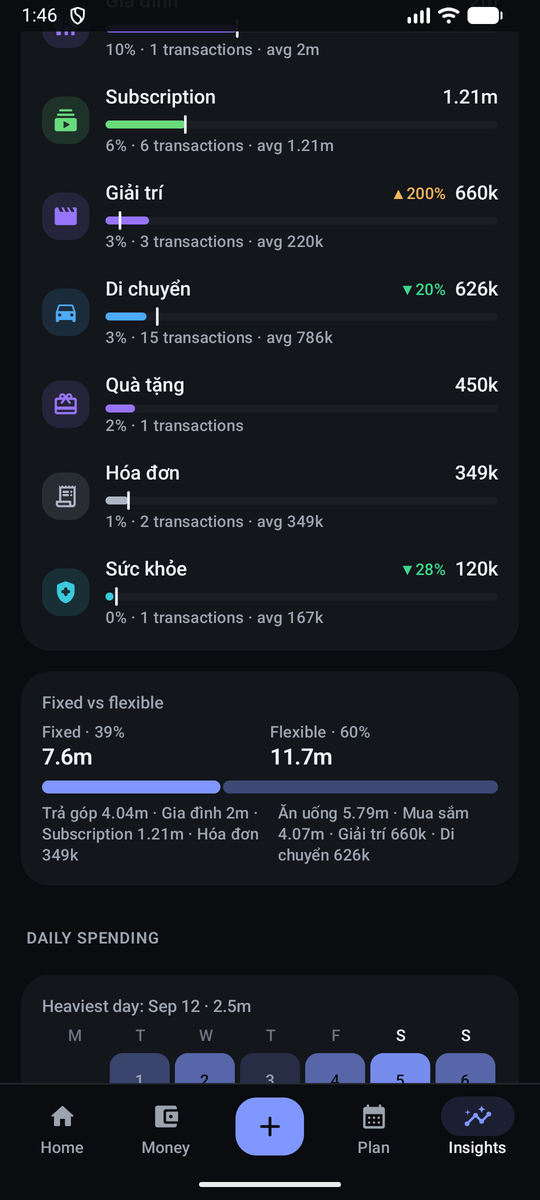
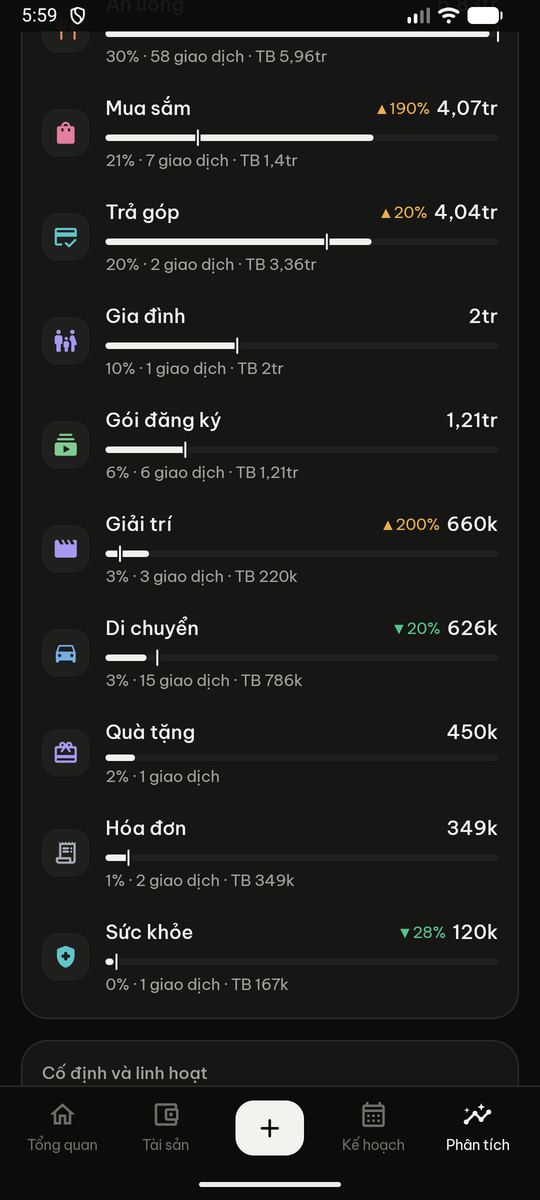
Docs: new screenshots and documentation for design v2
- Fresh screenshots (Vietnamese, light and dark) for every main screen
- README rewritten in Vietnamese with download link, CI/release process,
  build badge and interaction counts
- PRODUCT.md: design system v2 (palette, Be Vietnam Pro, components,
  localized number/date formats)
- AUDIT.md: pass 4 (Vietnamese default, design v2, fixes), CI and release notes

diff --git a/README.md b/README.md
@@ -1,25 +1,55 @@
 # Ledger
 
-A personal, offline-first Android money app built around one interaction: **tap a preset → amount → save**.
-Everything else — accounts, credit cards, subscriptions, installments, safe-to-spend, forecast and analytics —
-exists to make the financial picture clearer without making that interaction slower.
+[![Android build](https://github.com/zcrossoverz/personal-finance/actions/workflows/android.yml/badge.svg)](https://github.com/zcrossoverz/personal-finance/actions/workflows/android.yml)
+[![Release](https://img.shields.io/github/v/release/zcrossoverz/personal-finance)](https://github.com/zcrossoverz/personal-finance/releases/latest)
 
-![Light](docs/screenshots/overview_light.png)
-![Dark](docs/screenshots/overview_dark.png)
+Ứng dụng quản lý tài chính cá nhân cho Android, chạy hoàn toàn trên máy (offline), xoay quanh một thao tác:
+**chạm mục → nhập số tiền → lưu**. Mọi thứ còn lại — tài khoản, thẻ tín dụng, gói đăng ký, trả góp, số tiền
+có thể chi, dự báo dòng tiền và phân tích — tồn tại để bức tranh tài chính rõ hơn mà không làm thao tác đó chậm đi.
 
-- Product, IA, interaction model and design system: [docs/PRODUCT.md](docs/PRODUCT.md)
-- Audit log (what was reviewed, found and fixed): [docs/AUDIT.md](docs/AUDIT.md)
+*An offline-first personal finance app for Android. Vietnamese by default, English available in Settings.*
 
-## Download
+![Giao diện sáng](docs/screenshots/overview_light.png)
+![Giao diện tối](docs/screenshots/overview_dark.png)
 
-Every push to `main` builds the app on GitHub Actions (tests + debug and release APKs, under the run's
-**Artifacts**). Pushing a tag like `v1.0.0` also publishes a GitHub Release with the release APK attached.
+## Tải về
 
-The UI is Vietnamese by default (English available in Settings).
+**[Tải APK mới nhất](https://github.com/zcrossoverz/personal-finance/releases/latest)** — mở link trên điện thoại,
+tải file `ledger-…-release.apk` và cho phép cài từ nguồn không xác định khi Android hỏi.
 
-## Build & run
+Lần đầu mở app, chọn **Xem thử với dữ liệu mẫu** để xem mọi màn hình với 7 tháng dữ liệu thực tế, hoặc
+**Bắt đầu** để thiết lập trong 4 bước (tiền tệ → tài khoản → mục nhập nhanh → ngày lương, có thể bỏ qua).
 
-Requirements: JDK 17+, Android SDK 36 (`local.properties` → `sdk.dir`).
+## Tính năng chính
+
+| | |
+|---|---|
+| **Nhập nhanh** | Mục nhập nhanh (Ăn uống, Cafe, Xăng xe…) nhớ danh mục, tài khoản và số tiền hay dùng; nhấn giữ để lưu ngay một số tiền; tự đổi thành *Ăn trưa/Ăn tối* theo giờ; nhập bằng lệnh như `85k ăn`, `chuyển 5tr mb vcb` |
+| **Tài sản** | Nhiều tài khoản (tiền mặt, ngân hàng, ví điện tử, tiết kiệm), thẻ tín dụng với sao kê, hạn thanh toán, hạn mức; tài sản ròng theo thời gian |
+| **Kế hoạch** | Hoá đơn, gói đăng ký, trả góp và lương trên một lịch trình; **số tiền có thể chi** đến kỳ lương với công thức minh bạch; dự báo dòng tiền 45 ngày (phần ước tính luôn là nét đứt) |
+| **Phân tích** | Dòng tiền tháng, nhịp chi so với tháng trước và trung bình 3 tháng, chi theo danh mục (xem chi tiết đến từng giao dịch), cố định/linh hoạt, lịch nhiệt, dòng chảy tiền, 6 tháng gần đây, nhận xét ghi rõ *dữ kiện / ước tính / dự báo* |
+| **Chính xác** | Chuyển khoản không tính thu/chi; mua bằng thẻ chỉ tính một lần; hoàn tiền và tiền bạn bè trả lại bù vào chi tiêu, không tính là thu nhập; chia một giao dịch cho nhiều danh mục |
+| **Riêng tư** | Chỉ lưu trên máy, không cần tài khoản, không có quyền truy cập Internet; khoá bằng vân tay/khuôn mặt; ẩn số tiền; chặn chụp màn hình; xuất/khôi phục JSON, xuất CSV |
+
+| Nhập giao dịch | Có thể chi | Thẻ tín dụng | Phân tích |
+|---|---|---|---|
+| ![](docs/screenshots/entry_light.png) | ![](docs/screenshots/safe_to_spend_light.png) | ![](docs/screenshots/money2_light.png) | ![](docs/screenshots/insights_light.png) |
+
+## Số lần chạm cho các thao tác thường gặp (đo trên máy)
+
+| Tình huống | Cách làm | Số lần chạm |
+|---|---|---|
+| Ăn trưa 55k, tài khoản mặc định | *Ăn trưa* → `55k` → Lưu | **3** (hoặc 2: nhấn giữ → `55k`) |
+| Đổ xăng 100k | *Xăng xe* → `100k` → Lưu | **3** |
+| Mua Shopee bằng thẻ tín dụng | *Shopee* (đã chọn sẵn thẻ) → số tiền → Lưu | **3** |
+| Chuyển 5tr MB → VCB | **+** → Chuyển khoản → `5tr` → Lưu | **4** (hoặc lệnh `chuyển 5tr mb vcb`) |
+| Nhập tiền điện từ thông báo nhắc | Chạm thông báo → số tiền → Thanh toán | **2–3** |
+| Xem các khoản bắt buộc tháng sau | Tab Kế hoạch → nhóm "Tháng sau" có tổng | **1** |
+| Còn chi được bao nhiêu đến kỳ lương | Hiện ngay ở Tổng quan; chạm để xem cách tính | **0** / 1 |
+
+## Build
+
+Cần JDK 17+ và Android SDK 36 (`local.properties` → `sdk.dir`).
 
 ```bash
 ./gradlew :app:testDebugUnitTest
@@ -29,53 +59,42 @@ Requirements: JDK 17+, Android SDK 36 (`local.properties` → `sdk.dir`).
 ./gradlew :app:installDebug
 ```
 
+### CI và phát hành
+
+GitHub Actions ([`android.yml`](.github/workflows/android.yml)) chạy test và build APK debug + release ở mọi lần
+push và pull request (xem mục **Artifacts** của mỗi lần chạy). Để phát hành bản mới:
+
+1. Tăng `versionCode` và `versionName` trong `app/build.gradle.kts`, commit và push.
+2. Tạo tag — CI sẽ build, ký và đăng GitHub Release kèm APK:
+
 ```bash
-./gradlew :app:assembleRelease
+git tag v1.0.1 && git push origin v1.0.1
 ```
 
-The release build is minified (R8). It is signed with the keystore given by `LEDGER_KEYSTORE_PATH`,
-`LEDGER_KEYSTORE_PASSWORD`, `LEDGER_KEY_ALIAS`, `LEDGER_KEY_PASSWORD` if set (CI reads them from repository
-secrets, the keystore itself as `LEDGER_KEYSTORE_BASE64`); otherwise with the debug key so it still installs.
-On first launch choose **Explore with demo data** to review every screen with a realistic 7-month dataset, or
-**Get started** for the 4-step onboarding (currency → accounts → presets → optional pay day).
+Bản release được ký bằng keystore đọc từ biến môi trường `LEDGER_KEYSTORE_PATH`, `LEDGER_KEYSTORE_PASSWORD`,
+`LEDGER_KEY_ALIAS`, `LEDGER_KEY_PASSWORD` (trên CI lấy từ repository secrets, keystore là `LEDGER_KEYSTORE_BASE64`).
+Không có các biến này thì bản release dùng khoá debug để vẫn cài được. Keystore không bao giờ nằm trong repo.
 
-## Measured interaction counts (on device, demo data)
-
-| Scenario | Path | Taps |
-|---|---|---|
-| A. 55k lunch, default bank | *Ăn trưa* → `55k` → Save | **3** (2 via long-press → `55k`) |
-| B. 100k fuel | *Xăng xe* → `100k` → Save | **3** |
-| C. Shopee on credit card | *Shopee* (card preselected) → amount → Save | **3** |
-| D. 5m MB → VCB | **+** → Transfer → `5m` (learned route) → Save | **4** (or command `chuyển 5m mb vcb`) |
-| E. Electricity from reminder | notification → amount (or `≈720k`) → Pay | **2–3** |
-| F. Next month's mandatory payments | Plan tab → "October · Next month" header total | **1** |
-| G. Safe to spend until salary | visible on Home at launch; tap for the formula | **0** / 1 |
-
-## Architecture (deliberately small)
+## Kiến trúc
 
 ```
 app/src/main/java/dev/personal/ledger/
-  data/       Room entities + DAO, Repository (writes return Undo), Prefs, Seeds, DemoData
-  domain/     Pure Kotlin: Ledger (balances, expense lines), Cards, Plan (recurrence, obligations,
-              safe-to-spend, forecast), Analytics, Insights, Capture (preset ranking, command parser), Search
-  ui/         Compose: theme tokens, components, charts (custom Canvas), home / entry / plan / money /
-              insights / settings / onboarding
-  backup/     JSON backup + CSV export (Storage Access Framework — the user picks the file)
-  reminders/  WorkManager daily check: auto-post fixed auto-pay items, notify variable bills & card dues
+  data/       Room entities + DAO, Repository (mọi thao tác ghi đều có Undo), cài đặt, dữ liệu mẫu
+  domain/     Kotlin thuần: sổ cái, thẻ, lịch định kỳ, có thể chi, dự báo, phân tích, nhận xét, lệnh, tìm kiếm
+  i18n/       tr() + bảng tiếng Việt (mặc định)
+  ui/         Jetpack Compose: design system, biểu đồ vẽ bằng Canvas, các màn hình
+  backup/     Sao lưu JSON + xuất CSV qua Storage Access Framework
+  reminders/  WorkManager: tự ghi các khoản tự động, nhắc hoá đơn thay đổi và hạn thẻ
 ```
 
-* One module, no DI framework (`LedgerApp` wires Room + Repository), no backend, and no `INTERNET` permission —
-  the app cannot reach the network.
-* The whole ledger is held in memory as `LedgerData`; every calculation is a pure function over it, computed off
-  the main thread. A personal ledger is thousands of rows, so this stays fast and makes every rule testable.
-* All financial semantics live in `domain/Ledger.kt` (§8 of PRODUCT.md) and are covered by `LedgerTest`:
-  transfers are zero-sum, card purchase + payment count once, refunds/reimbursements offset spending (never income),
-  splits drive analytics, installments count per payment with the remainder as a liability, card-charged
-  subscriptions are never double-counted in the forecast, safe-to-spend follows its published formula.
+Một module, không DI framework, không backend. Toàn bộ quy tắc tài chính nằm trong `domain/` và được kiểm tra
+bằng unit test (`LedgerTest`); `I18nTest` bảo đảm mọi chuỗi đều có bản tiếng Việt.
 
-## Privacy
+## Tài liệu
 
-Local-only storage; no analytics, no accounts, no `INTERNET` permission. Optional app lock (biometric / device credential,
-re-locks after 1 min away), hide-amounts mode, and screen protection (blocks screenshots and blurs the app in
-Recents) — on by default for real data. Android cloud backup is disabled for the database; you own your data via
-**Settings → Export backup / Export CSV / Restore**.
+- [docs/PRODUCT.md](docs/PRODUCT.md) — định nghĩa sản phẩm, kiến trúc thông tin, mô hình tương tác, design system,
+  quy tắc sổ cái
+- [docs/AUDIT.md](docs/AUDIT.md) — nhật ký review: đã kiểm tra gì, phát hiện gì, sửa gì
+
+Font [Be Vietnam Pro](https://github.com/bettergui/BeVietnamPro) được phân phối theo SIL Open Font License
+([docs/licenses/BeVietnamPro-OFL.txt](docs/licenses/BeVietnamPro-OFL.txt)).

diff --git a/docs/PRODUCT.md b/docs/PRODUCT.md
@@ -49,7 +49,8 @@ Derived rules used to settle every design argument:
 
 ## 3. Information architecture
 
-Four destinations in a bottom bar, mirroring the product modules (CAPTURE is on Home, not a tab):
+Four destinations in a bottom bar, mirroring the product modules (CAPTURE is on Home, not a tab).
+In the Vietnamese UI they are *Tổng quan · Tài sản · Kế hoạch · Phân tích*.
 
 ```
 ┌ Home ──────────── state + capture (operational, no charts)
@@ -134,50 +135,74 @@ an account chip row and a date chip (Today / Yesterday / pick). Save is the larg
 
 ---
 
-## 7. Design system
+## 7. Design system (v2)
 
-Three layers (primitive → semantic → component), implemented in `ui/theme`.
+Three layers (primitive → semantic → component), implemented in `ui/theme/Theme.kt`.
+
+**Direction.** An editorial, ink-on-paper finance tool. v1 used an indigo accent, pastel icon tiles, coloured pills
+and uppercase section labels; together they read as a generic template. v2 keeps one interactive colour (ink),
+reserves colour for meaning, and lets typography and numbers carry the hierarchy. No gradients, glow or tinted cards.
 
 **Colour (semantic)**
 
 | Token | Light | Dark | Use |
 |---|---|---|---|
-| bg | `#F5F6F8` | `#0A0C0F` | window |
-| surface | `#FFFFFF` | `#13161B` | cards |
-| surfaceAlt | `#EEF0F3` | `#1A1E24` | chips, keys, inset areas |
-| hairline | `#E3E6EA` | `#23282F` | 1dp dividers (light mode only on cards) |
-| text | `#0D1015` | `#F1F3F6` | primary |
-| textMuted | `#5A6371` | `#9BA3AF` | labels (≥ 4.5:1) |
-| textFaint | `#8B94A1` | `#6B7380` | tertiary, axis |
-| accent | `#3D5AFE`→`#4263EB` | `#7B93FF` | the one brand colour: CTAs, selection, primary series |
-| positive | `#0F9D6B` | `#3DD68C` | income, under pace |
-| negative | `#D93A3F` | `#FF6B6E` | liabilities, overdue, over pace |
-| caution | `#B7791F` | `#F2B55A` | due soon, estimates |
+| bg | `#F6F5F2` warm paper | `#0C0C0B` | window |
+| surface | `#FFFFFF` | `#161615` | cards, preset tiles |
+| surfaceAlt | `#EFEEEA` | `#1F1F1D` | icon wells, inputs, chips at rest |
+| hairline | `#E7E5E0` | `#2A2A27` | 1 dp borders and dividers |
+| text | `#141412` ink | `#F3F2EE` bone | primary text |
+| textMuted | `#69675F` | `#A3A19A` | labels (≥ 4.5 : 1) |
+| accent | ink `#141412` | bone `#F3F2EE` | buttons, selection, capture key, chart series |
+| positive | `#177245` | `#55C48C` | income, kept, under pace |
+| negative | `#C4352B` | `#F2695C` | debt, overdue |
+| caution | `#9E5E06` | `#E9AE4E` | estimates, due soon, ahead of pace |
+| cardFace | `#1B1B19` | `#282826` | credit cards rendered as the physical object |
 
-Expenses are **not** red — spending is normal. Red is reserved for debt and problems.
-Category identity uses 8 muted hues at 14 % tint behind the icon; charts use accent + neutral, not rainbows.
+Spending is never red — it is normal. Category identity is a muted glyph colour on a neutral well, never a fill.
+Charts are monochrome (ink series, grey comparisons) with colour only where it means something.
 
-**Type** — Inter (downloadable, falls back to system sans), tabular figures for every amount.
+**Type** — Be Vietnam Pro (OFL, bundled in `res/font`, so the app stays offline), designed for Vietnamese
+diacritics. Line heights are generous (≈ 1.3–1.45×) because Vietnamese stacks marks above and below.
 
 | Role | Size / weight | Use |
 |---|---|---|
-| hero | 40 / SemiBold, -2 % tracking | cash on hand, quick-entry amount |
-| display | 30 / SemiBold | screen hero numbers |
-| title | 20 / SemiBold | screen titles |
-| headline | 17 / SemiBold | card titles, list amounts |
-| body | 15 / Regular | text |
+| hero | 38 / Medium, −3 % | cash on hand, entry amount (44) |
+| display | 28 / Medium | screen hero numbers |
+| title | 26 / SemiBold | tab titles |
+| headline | 17 / SemiBold | card titles, pushed-screen titles (19) |
+| section | 16 / SemiBold | sentence-case section headers |
+| body / bodyStrong | 15 / Regular, Medium | text, list titles, amounts |
 | label | 13 / Medium | chips, meta |
-| caption | 12 / Medium, +2 % tracking | section labels, axis (never smaller) |
+| caption | 12 / Regular | secondary lines, axis labels (never smaller) |
 
-**Space** 4 · 8 · 12 · 16 · 20 · 24 · 32 · 40. Page gutter 20 dp. Card padding 16–20 dp.
-**Shape** card 22 dp · tile 18 dp · chip 12 dp · sheet 28 dp top · pill full.
-**Elevation** none in dark mode (tonal steps only); light mode cards: hairline + 1 dp soft shadow.
+The font has proportional digits, so changing totals slide vertically (direction = up/down) instead of rolling
+digit by digit, which would jitter.
+
+**Components worth knowing**
+- *Tag* — a 6 dp dot + caption instead of a pill; a hollow dot marks estimates (same grammar as dashed lines).
+- *Section header* — sentence case, with a quiet "action ›" on the right.
+- *Keypad* — borderless keys, tall ink Save key in the thumb corner.
+- *Bottom bar* — outlined icons at rest, filled when selected, ink capture key in the centre; no pill indicator.
+
+**Space** 4 · 8 · 12 · 16 · 20 · 24 · 32. Page gutter 20 dp.
+**Shape** card 20 · tile 16 · button 14 · chip/well 12 · sheet 24 top.
+**Elevation** none; surfaces are separated by tone and 1 dp hairlines. Only the quick-amount popup has a soft shadow.
 **Motion** tap feedback ≤ 100 ms · micro 160 ms · standard 240 ms · emphasized spring (damping 0.85).
-Save → sheet dismiss 180 ms, row slides in 240 ms, totals roll 400 ms; none block input.
-**Touch** ≥ 48 dp targets, numpad keys 64 dp tall.
-**Icons** one family (Material Symbols Rounded), 22 dp in lists, 24 dp in tiles.
+**Touch** ≥ 48 dp targets; keypad keys 60 dp.
+**Icons** Material Symbols Rounded, 20 dp in wells, 24 dp in preset tiles.
 
-**Number format** `65,000 ₫` in full; compact `65k`, `8.4m`, `1.42m`, `1.2b` (≤ 3 significant digits).
+**Language & numbers.** Vietnamese is the default; English is a setting. Every user-facing string goes through
+`tr("English source")` with a complete table in `i18n/Vi.kt`; `I18nTest` fails if any string lacks a translation or
+a translation changes the number of arguments.
+
+| | Vietnamese (default) | English |
+|---|---|---|
+| Full amount | `65.000 ₫` | `65,000 ₫` |
+| Compact | `65k` · `8,4tr` · `1,42tr` · `1,2tỷ` | `65k` · `8.4m` · `1.42m` · `1.2b` |
+| Dates | `T7, 26/09` · `Tháng 9` · `còn 3 ngày` | `Sat, 26 Sep` · `September` · `in 3 days` |
+
+Amount input accepts either convention: `65.000`, `65,000`, `65k`, `1,5tr`, `1tr5`, `1.5m`.
 
 ---
 

diff --git a/docs/AUDIT.md b/docs/AUDIT.md
@@ -47,7 +47,32 @@ This is what each pass found and what changed as a result.
 Verified on device: save → Undo fully restores balances; paying a variable bill advances its schedule and learns the
 new amount (720k → 685k, next due moves to 27 Oct); notification deep link opens that bill's amount entry.
 
-## Financial correctness (unit tests, `LedgerTest`, 15 tests)
+## Pass 4 — Vietnamese by default, design v2
+
+Goal: make Vietnamese the default language and move away from a look that read as a generic, AI-generated template.
+
+| Area | Finding | Change |
+|---|---|---|
+| Visual language | Indigo accent, pastel icon tiles, coloured pills, uppercase letter-spaced headers, coloured side bars on insight cards — each common in templates, together unmistakable | Ink/paper palette, one interactive colour, neutral icon wells with coloured glyphs, dot+caption tags, sentence-case headers, insights as a divided list |
+| Typography | System Roboto, no personality, cramped Vietnamese diacritics | Be Vietnam Pro bundled; generous line heights |
+| Numbers | Rolling counter would jitter with the new proportional digits | Directional slide on change |
+| Credit cards | Tinted gradient panel | Rendered as a dark card object; due date promoted when close |
+| Keypad | Grey tiles | Borderless keys, ink Save |
+| Bottom bar | Material pill indicator | Outlined → filled icon, ink capture key |
+| Charts | Category hues in money-flow ribbons and bars | Monochrome; colour only for kept/debt/estimate |
+| Language | English only | `tr()` + complete Vietnamese table (default) + English setting; localized money (`65.000 ₫`, `8,4tr`) and dates (`T7, 26/09`) |
+| Language switch | Bottom bar kept the old language (composables that don't read changed state aren't recomposed) | UI tree keyed on language; navigation moved into the ViewModel so the user stays on the same screen |
+| Copy | Seed names "Subscription"/"Shopping" in a Vietnamese UI; heatmap weekday letters in English; pace line wrapping to two lines | "Gói đăng ký"/"Mua sắm"; T2…CN; shorter pace copy |
+| Correctness | "Largest upcoming payment" picked a 7tr transfer to the user's own savings | Transfers excluded — only bills, subscriptions, installments and card dues are payments |
+| Search | Vietnamese phrases split into words and missed ("ăn uống tuần này", "hoàn tiền") | Multi-word category names matched first; Vietnamese keywords for refunds, subscriptions, transfers, income |
+
+`I18nTest` scans the sources: the build fails if any `tr()` string has no Vietnamese entry, or if a translation
+changes the number of format arguments. It also pins the Vietnamese number and date formats.
+
+Reviewed on device in Vietnamese and English, light and dark: Home, entry sheet, safe-to-spend breakdown, Plan,
+Money, credit card, Insights (all sections), transaction detail, Settings, onboarding.
+
+## Financial correctness (unit tests, `LedgerTest` 15 + `I18nTest` 3)
 
 Transfers zero-sum and excluded from income/expense · card purchase + payment counted once · refund offsets, never
 income · reimbursement reduces the category, not income · split lines drive analytics; refunds of splits allocate
@@ -58,7 +83,7 @@ search parsing · demo-data invariants (no future transactions, splits sum, no n
 
 ## Performance
 
-Release build (R8): 2.6 MB APK, cold start ≈ 0.6 s on the emulator. All financial computation runs on
+Release build (R8): 2.9 MB APK including ~540 KB of bundled fonts, cold start ≈ 0.6 s on the emulator. All financial computation runs on
 `Dispatchers.Default`; Insights computes per month asynchronously. Emulator frame statistics are dominated by
 "slow issue draw commands" (GL translation) rather than UI-thread work, so they are not a reliable signal —
 profile on a physical phone before optimising further (a Baseline Profile would be the first step).
@@ -71,8 +96,6 @@ instead of a chart library because readability, scrubbing and dark mode needed d
 
 ## Known limitations / next steps
 
-- Typeface: system sans (Roboto) with tabular figures. The Google Fonts provider certificates aren't available
-  offline here; dropping Inter `.ttf` files into `res/font` is a 10-line change.
 - App lock couldn't be exercised on the emulator (no enrolled credential); the toggle is disabled with an explanation
   when the device has no screen lock.
 - Single currency, whole units only (fine for VND; USD/EUR cents are not supported).
@@ -80,5 +103,12 @@ instead of a chart library because readability, scrubbing and dark mode needed d
 - No home-screen widget yet — launcher shortcuts cover the top 3 presets plus "Quick command" and "Upcoming".
 - Preset reordering uses up/down controls rather than drag-and-drop.
 - Room schema version 1 with schema export on; migrations will be needed with the first schema change.
+- Category and preset names are user data: seeded in Vietnamese and not translated when switching to English.
 - A recurring *transfer* into a credit card would overlap with the card's statement estimate in the forecast; use
   the card due instead (card payments are always derived from the statement).
+
+## Build & release
+
+GitHub Actions (`.github/workflows/android.yml`) runs the unit tests and builds debug + release APKs on every push
+and pull request; `v*` tags publish a GitHub Release with the signed release APK. Release signing comes from
+repository secrets (keystore kept outside the repo); v1.0.0 was verified to be signed with the release certificate.
